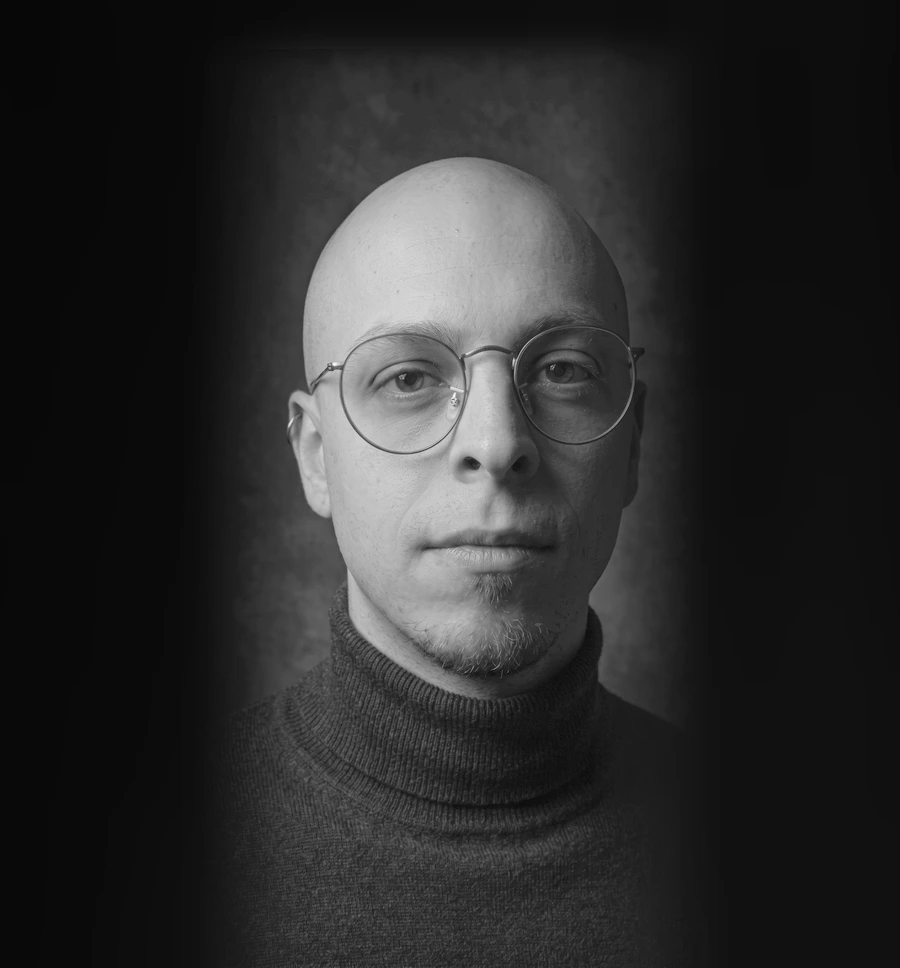
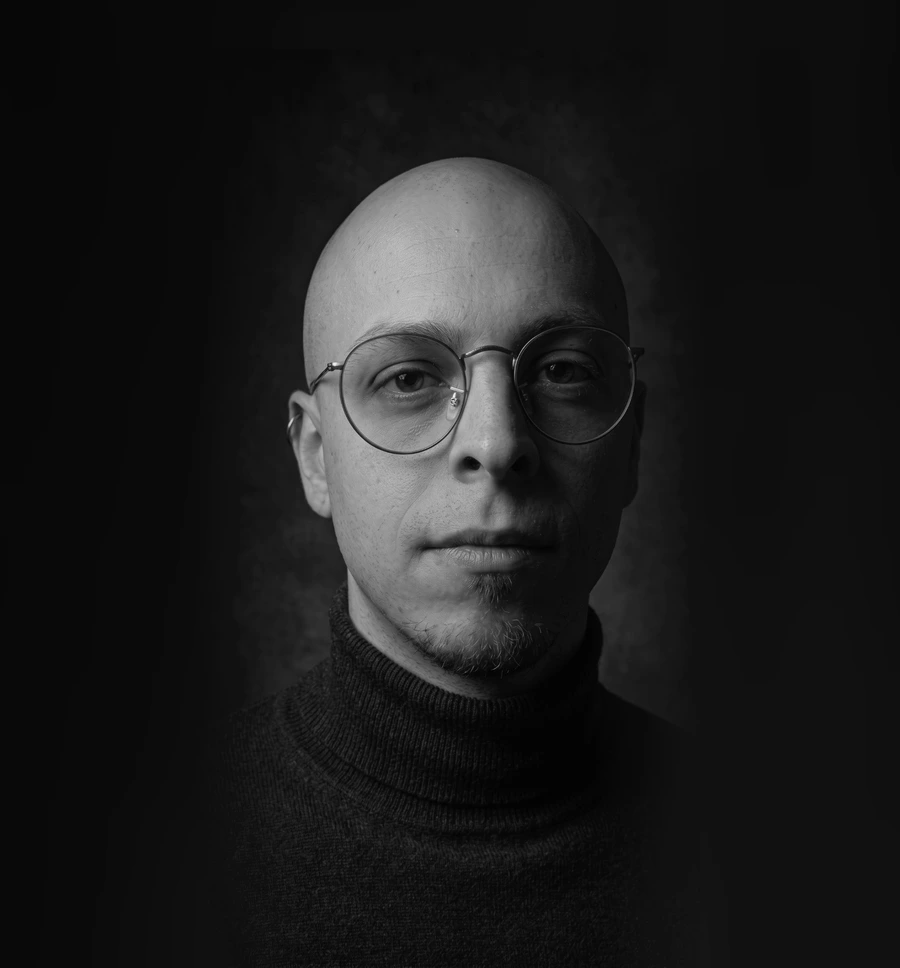
Ripristina il ritratto hero com'era prima dello schiarimento ombre (#347)
Il feedback diretto è che la versione con le ombre sollevate (#346)
era peggiore della precedente (#345). Ripristinato il file esatto
di quella versione, bump a ?v=18.

Claude-Session: https://claude.ai/code/session_01TsQHtMqWTWqH38J3yoYhH8

diff --git a/tests/site-regression.test.js b/tests/site-regression.test.js
@@ -47,8 +47,8 @@ assert(html.includes('data-i18n="skip_to_content"'), 'Skip link must be translat
 assert(!html.includes('data-lang="fr"'), 'French selector must be removed');
 assert(html.includes('class="desktop-nav"'), 'Section navigation must be present');
 assert(html.includes('class="hero-filmstrip"'), 'Hero filmstrip must link to the real sections');
-assert(html.includes('srcset="photo.webp?v=17"'), 'New portrait must be displayed');
-assert(html.includes('srcset="photo-mobile.webp?v=17"'), 'Mobile portrait crop must be displayed');
+assert(html.includes('srcset="photo.webp?v=18"'), 'New portrait must be displayed');
+assert(html.includes('srcset="photo-mobile.webp?v=18"'), 'Mobile portrait crop must be displayed');
 assert(!html.includes('id="c1Details"'), 'RAG detail reader must be removed');
 assert(!html.includes('rag_step1_title'), 'RAG diagram must be removed');
 assert(!html.includes('id="c2Details"'), 'Local AI detail reader must be removed');

diff --git a/index.html b/index.html
@@ -112,9 +112,9 @@
     </div>
     <div class="hero-photo-frame">
       <picture>
-        <source media="(max-width:700px)" srcset="photo-mobile.webp?v=17" type="image/webp">
-        <source srcset="photo.webp?v=17" type="image/webp">
-        <img class="hero-portrait" id="avatarPhoto" src="photo.webp?v=17" alt="Nicolò Forcolin" width="2000" height="848" fetchpriority="high">
+        <source media="(max-width:700px)" srcset="photo-mobile.webp?v=18" type="image/webp">
+        <source srcset="photo.webp?v=18" type="image/webp">
+        <img class="hero-portrait" id="avatarPhoto" src="photo.webp?v=18" alt="Nicolò Forcolin" width="2000" height="848" fetchpriority="high">
       </picture>
     </div>
   </div>
